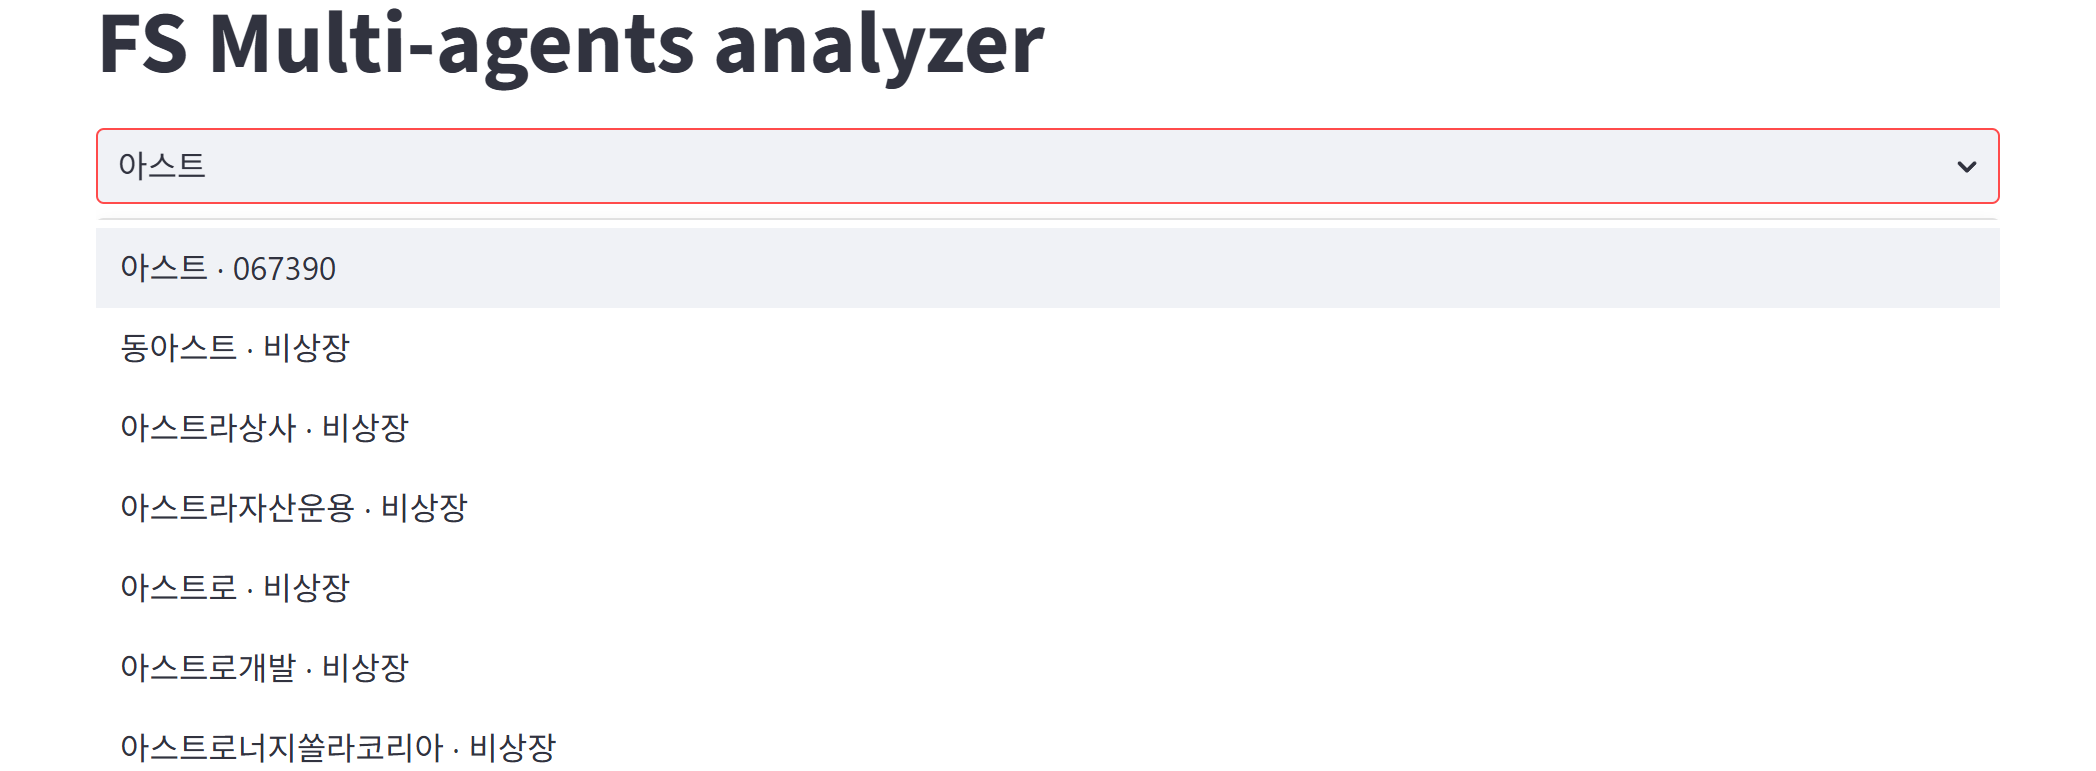
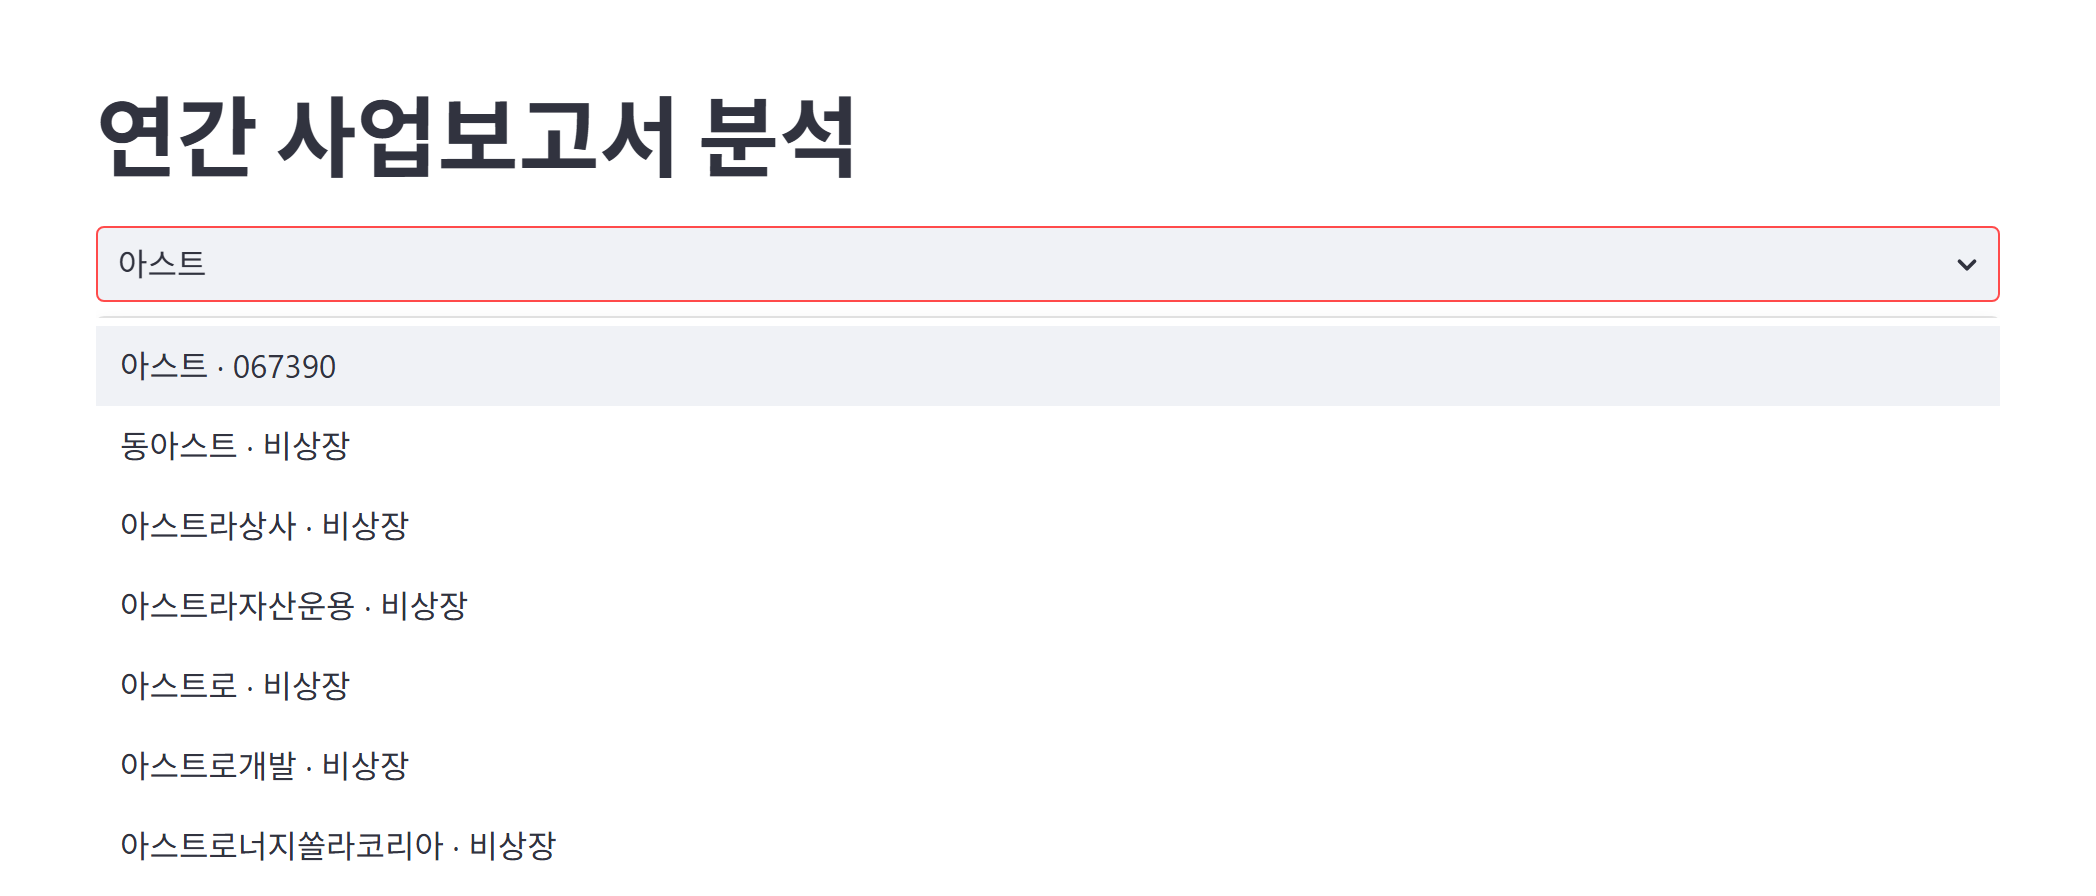
refactor(ui): 화면 제목과 진행 표시를 병렬 분석 에이전트 용어로 통일
README가 2026-08-04에 "멀티 에이전트" → "병렬 분석 에이전트"로 정리됐으나 화면·설정·
보고서에 옛 용어가 남아 있었다. 에이전트끼리 통신하지 않는 구조라 "교차검증"은 실제
동작과 어긋난다.

- 화면 제목 "FS Multi-agents analyzer" → "연간 사업보고서 분석"
- 진행 표시, 실행 중 문구, 안내 박스를 병렬 분석 에이전트 실행으로 교체
- pyproject description, FINAL-REPORT, golden/DESIGN, 관점 모듈 docstring 정리
- 제목이 노출되는 README 스크린샷 2장 재촬영(3, 4번은 제목 미노출로 유지)

개발 이력을 서술하는 8_DIFFERENTIATION, 10_JOURNEY의 당시 용어는 그대로 둔다.

diff --git a/dashboard/report_view.py b/dashboard/report_view.py
@@ -211,7 +211,7 @@ def _run_analysis(corp_code: str, corp_name: str, year: int, window: list[int], 
         # 카드 차트·근거 표가 참조할 계정 시계열 컨텍스트(분석 시점 스냅샷) 저장.
         st.session_state["rv_series"] = report.get("account_level_series") or []
         st.session_state["rv_target_year"] = report.get("target_year")
-        with busy("멀티 에이전트 교차검증 중 (수 분 소요)..."):
+        with busy("병렬 분석 에이전트 실행 중 (수 분 소요)..."):
             st.session_state["rv_cards"] = asyncio.run(
                 build_suspicion_cards(report, on_progress=_on_progress)
             )
@@ -252,7 +252,9 @@ def _do_read(corp_code: str, year: int, key: str, steps: list[dict]) -> bool:
         elapsed = int(time.perf_counter() - started)
         board.html(
             _steps_html(
-                steps, running=INSPECT, running_meta=f"{p['done']}/{p['total']} 파트 · 경과 {elapsed}s"
+                steps,
+                running=INSPECT,
+                running_meta=f"{p['done']}/{p['total']} 파트 · 경과 {elapsed}s",
             )
         )
 
@@ -353,7 +355,7 @@ def _render_run_block(corp_code: str, corp_name: str, year: int, window: list[in
     finished = all_done(steps)
     if not finished:
         st.html(
-            '<div class="drv-note">원본 수집, 사업보고서 본문 읽기, 멀티 에이전트 교차검증이 '
+            '<div class="drv-note">원본 수집, 사업보고서 본문 읽기, 병렬 분석 에이전트 실행이 '
             "함께 실행됩니다. (LLM 호출 및 수 분 소요)</div>"
         )
     if st.button("다시 실행" if finished else "분석 실행", type="primary"):
@@ -369,7 +371,7 @@ def render() -> None:
     """
 
     inject_css()
-    st.title("FS Multi-agents analyzer")
+    st.title("연간 사업보고서 분석")
 
     corp_code = render_company_search()
     if not corp_code:

diff --git a/dashboard/steps.py b/dashboard/steps.py
@@ -18,7 +18,7 @@ STEP_ORDER = (PREPARE, INSPECT, ANALYZE, OUTPUT)
 STEP_LABELS = {
     PREPARE: "준비 — 원본 수집, 표준 계정 변환, 주석 인덱싱, 본문 추출(LLM)",
     INSPECT: "점검 — 정합성 검증, 계정명 연결(LLM)",
-    ANALYZE: "분석 — 신호 연산, 멀티 에이전트 교차검증(LLM)",
+    ANALYZE: "분석 — 신호 연산, 병렬 분석 에이전트 실행(LLM)",
     OUTPUT: "산출 — 인용 수치 대조, 검토 카드 생성",
 }
 SKIP = "건너뜀 — 이미 있음"

diff --git a/src/report/external.py b/src/report/external.py
@@ -1,4 +1,4 @@
-"""External context perspective for L4 multi-agent review."""
+"""External context perspective for L4 parallel perspective review."""
 
 from __future__ import annotations
 

diff --git a/src/report/industry.py b/src/report/industry.py
@@ -1,4 +1,4 @@
-"""Industry peer perspective for L4 multi-agent review."""
+"""Industry peer perspective for L4 parallel perspective review."""
 
 from __future__ import annotations
 

diff --git a/golden/DESIGN.md b/golden/DESIGN.md
@@ -1,6 +1,6 @@
 # 골든테스트 설계 — PHASE2 파이프라인 외부정답 검증
 
-> 설계 단일출처. 이 폴더(`golden/`)는 PHASE2(멀티에이전트 교차검증) 파이프라인이
+> 설계 단일출처. 이 폴더(`golden/`)는 PHASE2(다관점 병렬 에이전트) 파이프라인이
 > "실제로 잘 도는가"를 **외부 정답**에 대조하는 골든테스트를 담는다.
 > 관련 메모리: `golden-test-strategy`. 상위 설계: [docs/agent/PHASE2_DESIGN.md](../docs/agent/PHASE2_DESIGN.md).
 
@@ -87,12 +87,12 @@ LG생건 감사에서 원값 100% 일치를 확인한 그 검사의 코드판.
 
 ### 2.4 PASS/FAIL 임계 (측정 가능)
 
-| 항목         | PASS 조건                                 | FAIL                      |
-| ------------ | ----------------------------------------- | ------------------------- |
-| 1a 원값 실재 | 대조 대상 수치 전수 불일치 = 0            | 1건이라도 값 불일치       |
-| 1b 환산 무결 | 표시↔원값 불일치 = 0                      | 1건이라도 어긋남          |
-| 분해 산술    | 카드별 \|Σleaves − 부모 delta\| ≤ 1원     | 초과                      |
-| 대사 불능    | 역추적 불가 수치를 **목록으로 명시 출력** | silent 통과(§9 위반)      |
+| 항목         | PASS 조건                                 | FAIL                 |
+| ------------ | ----------------------------------------- | -------------------- |
+| 1a 원값 실재 | 대조 대상 수치 전수 불일치 = 0            | 1건이라도 값 불일치  |
+| 1b 환산 무결 | 표시↔원값 불일치 = 0                      | 1건이라도 어긋남     |
+| 분해 산술    | 카드별 \|Σleaves − 부모 delta\| ≤ 1원     | 초과                 |
+| 대사 불능    | 역추적 불가 수치를 **목록으로 명시 출력** | silent 통과(§9 위반) |
 
 "대사 불능"(인덱스에 계정 자체가 없어 대조 불가)은 통과도 실패도 아닌 **제3 버킷**으로, 반드시
 산출물에 목록화한다. 조용히 통과시키면 hollow-PASS다. 대사 불능 건수가 임계(예: 카드당 0건)

diff --git a/FINAL-REPORT/7_UI-DASHBOARD.md b/FINAL-REPORT/7_UI-DASHBOARD.md
@@ -4,7 +4,7 @@
 
 ## 7.1 내부 흐름 — 버튼 하나, 나머지는 진행 표시
 
-사용자가 누르는 것은 **[분석 실행] 하나**다. 수집·표준 계정 변환·본문 읽기·교차검증은
+사용자가 누르는 것은 **[분석 실행] 하나**다. 수집·표준 계정 변환·본문 읽기·분석은
 버튼이 아니라 진행 표시이며, 끝난 단계는 마커를 보고 건너뛴다(`steps.build_steps`).
 
 ```
@@ -17,7 +17,7 @@
    ├─ 원본 수집          raw CSV 없는 연도만 DART 호출
    ├─ 표준 계정 변환·점검 prepare_company (재정규화·주석분류·게이트) → prep.json
    ├─ 사업보고서 본문 읽기 run_full_onboarding → onboarding.json
-   └─ 멀티 에이전트 교차검증
+   └─ 병렬 분석 에이전트 실행
               │
               ▼
    build_company_report (Phase1, 결정론)
@@ -40,7 +40,7 @@
 | ------------------ | ---------------------------------------------------- | ------------------------------- |
 | dashboard 모듈     | 10                                                   | `dashboard/`                    |
 | 사용자 버튼        | 1 (분석 실행 — 끝난 회사연도는 "다시 실행")          | `report_view._render_run_block` |
-| 실행 단계 표시     | 4 (수집·변환점검·본문읽기·교차검증)                  | `steps.build_steps`             |
+| 실행 단계 표시     | 4 (수집·변환점검·본문읽기·분석)                      | `steps.build_steps`             |
 | 회사 상태 분류     | 3 (A 미수집·B 미준비·C 준비완료) — 화면에는 A만 분기 | `prep.company_state`            |
 | 카드 섹션          | 3 (주장·결과분해·시각자료) + 반박                    | `card_view.py`                  |
 | 차트 타입          | 3 (분해=발산막대·관계=지수라인·계정=추이바)          | `card_view.py`                  |

diff --git a/FINAL-REPORT/1_OVERVIEW.md b/FINAL-REPORT/1_OVERVIEW.md
@@ -73,7 +73,7 @@ MVP 설치: `uv sync --group core --group agent --group dashboard --group dev`
 | ----------- | ----------------- | ------------------ | ------------------------- |
 | 분석 대상   | 기준서·사례(지식) | 전표 모집단(미시)  | **공시 재무제표(거시)**   |
 | 데이터      | 텍스트(RAG)       | 합성 전표          | **실제 공시(DART)**       |
-| AI 패러다임 | 가둔다(환각방지)  | 룰 기반 스크리닝   | **멀티에이전트 교차검증** |
+| AI 패러다임 | 가둔다(환각방지)  | 룰 기반 스크리닝   | **다관점 병렬 에이전트**  |
 | 도메인 성격 | 닫힘(정답지 있음) | 반열림(룰 기반)    | **열림(정답지 없음)**     |
 
 #3은 #2의 최대 약점(실데이터·label 부재)을 실제 DART 공시로 보완하고, #1의 자산(PydanticAI 구조화 출력)·#2의 자산(DuckDB·config-driven 룰·검토후보 포지셔닝)을 재활용한다.
